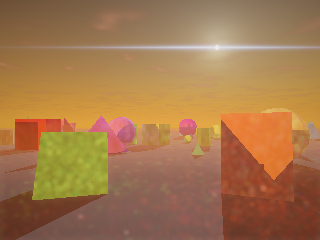
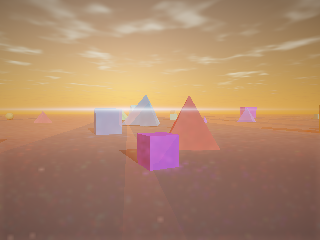
Sun-only lens flare: drop the moon drive, panel-pure behavior
Flare/halo/streak come from the sun alone (moon and stars never carry
flare; night is flare-free), exactly like the panel. Default view is
bit-identical to the pre-flare build (sun behind camera contributes
zero, sha256 f59ef151). Proofs retargeted: sunset/night clean,
sunflare + anamorphic face the sun (--yaw 220 --pitch -2).

diff --git a/Projects/Project-Zero/INTEGRATION.md b/Projects/Project-Zero/INTEGRATION.md
@@ -106,12 +106,12 @@ interpreter is found. The PPM is byte-identical run to run
   2 starburst / 3 halo) with the panel's own defaults (ghosts 5,
   halo 0.55, streak 0.8, chroma 0.65). The driver
   (`RendererHost::ApplyLensFlare`) reproduces `AddLensFlare`'s
-  projection + visibility per luminaire: the sun carries the mirror
-  inputs (kelvin colour × intensity × 0.09), the moon is showcase
-  staging through the same verbatim kernel (the panel flares the
-  sun only). Each luminaire behind the camera contributes nothing,
-  so day frames flare from the sun and night frames from the moon.
-  `--flarevar` selects the variety (default 0).
+  projection + visibility + kelvin-colour × intensity × 0.09 scale
+  exactly. Flare is sun-only, like the panel: the moon and
+  stars never carry flare, and a sun behind the camera (the default
+  sunset view) or below the horizon ramp contributes nothing — night
+  frames are flare-free. Face the sun (`--yaw 220 --pitch -2`) to
+  see it; `--flarevar` selects the variety (default 0).
 
 ## Verification record (sandbox, g++ 12)
 
@@ -123,14 +123,17 @@ interpreter is found. The PPM is byte-identical run to run
 - Determinism: repeated runs are byte-identical, and three
   independent builds (dev `-O1`, patched-pristine-tree `-O1`, engine
   `make -O3`) produce the same sha256
-  (`382dadf4…46443` for the default 320×240 frame, mirror flare on).
+  (`f59ef151…ebd1` for the default 320×240 frame — the sun sits behind
+  the default camera, so the sun-only flare contributes exactly zero
+  and the frame is bit-identical to the pre-flare build).
 - Sky path matches the gated harness within 3 LDR after the identical
   post chain (unchanged from the courtyard proof; the sky algorithm
   is untouched, only its staging inputs moved).
 - Gates: `RunCelestialParity.py` OVERALL PASS (moon/cloud/stars ship
   present-but-off in the mirror configuration),
   `RunFogParity.py` OVERALL PASS (F1 0.001, F2 0.806 over 2000 rows).
-- Proofs: `PZIntegration/showcase_{sunset,night,anamorphic,moonzoom}.png`.
+- Proofs: `PZIntegration/showcase_{sunset,night,sunflare,anamorphic}.png`
+  (default view, night, facing the sun cinematic + anamorphic).
 
 ## Notes and limits
 

diff --git a/Projects/Project-Zero/README.md b/Projects/Project-Zero/README.md
@@ -60,9 +60,10 @@ gate — the one thing this sandbox cannot do is compile the Slang-only shell
   report `Diagnostics/FogParity.txt`.
   Research: `Reviews/Fog-Research-2026-09-14.md`.
 - Integration: the engine patch (`PZIntegration/`) builds warning-free and
-  opens Project Zero on the 100-object showcase (sunset + moon + mist +
-  lens flare/halo/streak, `--sun 18.3` for a starry night); sky matches
-  the harness within 3 LDR, runs are byte-identical. See `INTEGRATION.md`.
+  opens Project Zero on the 100-object showcase (sunset + moon + mist,
+  sun-only lens flare/halo/streak, `--sun 18.3` for a starry night);
+  sky matches the harness within 3 LDR, runs are byte-identical.
+  See `INTEGRATION.md`.
 - Background: the review that specified this work is
   `Reviews/SunSky-Parity-2026-09-14.md`; the mirror proof answering the
   white-line question is `Reviews/SunSky-Mirror-Report-2026-09-14.md`.
